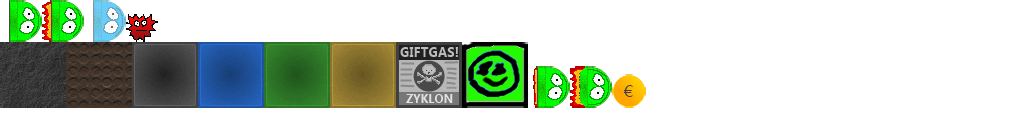
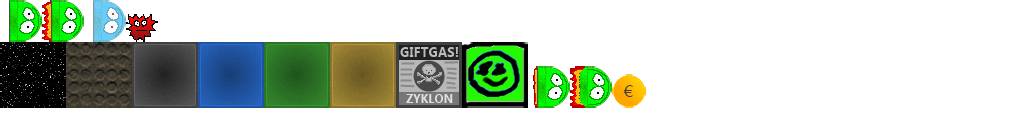
Many changes...

Changed region(s): [[0.0, 0.3125, 0.125, 0.8438]]

diff --git a/src/com/andreschnabel/deathjam/Player.java b/src/com/andreschnabel/deathjam/Player.java
@@ -4,6 +4,7 @@ import com.badlogic.gdx.graphics.g2d.Sprite;
 import com.badlogic.gdx.graphics.g2d.SpriteBatch;
 import com.badlogic.gdx.graphics.g2d.TextureAtlas;
 import com.badlogic.gdx.graphics.g2d.TextureRegion;
+import com.badlogic.gdx.math.Intersector;
 import com.badlogic.gdx.math.MathUtils;
 import com.badlogic.gdx.math.Rectangle;
 import com.badlogic.gdx.math.Vector2;
@@ -16,14 +17,15 @@ public class Player {
 	private static final float MOV_SPEED = 5.0f;
 	private static final float MAX_MOV_SPEED = 20.0f;
 
-	private Vector2 inertia = Vector2.Zero.cpy();
+	public Vector2 inertia = Vector2.Zero.cpy();
 
 	private Sprite playerSpr;
 	private List<TextureRegion> playerRegions = new ArrayList<TextureRegion>();
 	private final World world;
 
 	public boolean alive = true;
-	public int score = 0;
+	public int score;
+	public boolean gameover;
 
 	public Player(World world) {
 		this.world = world;
@@ -48,31 +50,71 @@ public class Player {
 		if(inertia.y >= MAX_MOV_SPEED) inertia.y = MAX_MOV_SPEED;
 	}
 
+	private final float RECT_MINIFICATION_FACTOR = 0.9f;
+
+	private void minificateRect(Rectangle rect) {
+		rect.x += (1 - RECT_MINIFICATION_FACTOR) * rect.width;
+		rect.y += (1 - RECT_MINIFICATION_FACTOR) * rect.height;
+		rect.width *= RECT_MINIFICATION_FACTOR;
+		rect.height *= RECT_MINIFICATION_FACTOR;
+	}
+
 	public void updatePlayerPos() {
 		playerSpr.setX(playerSpr.getX()+inertia.x);
 		playerSpr.setY(playerSpr.getY()+inertia.y);
 
 		Rectangle playerRect = playerSpr.getBoundingRectangle();
+		minificateRect(playerRect);
+
 		if(world.inTile(playerRect)) {
 			playerSpr.setX(playerSpr.getX()-inertia.x);
 			playerSpr.setY(playerSpr.getY()-inertia.y);
-			inertia.x *= -1.5f;
-			inertia.y *= -1.5f;
+			inertia.x *= -1.0f;
+			inertia.y *= -1.0f;
 
 			if(world.inTileOfType(playerRect, 'X')) {
-				alive = false;
-				world.loadFromFile("deathworld1.txt");
-				playerSpr.setPosition(world.playerStart.x, world.playerStart.y);
-				inertia.set(0.0f, 0.0f);
+				kill();
+				return;
 			}
 
 			if(world.inTileOfType(playerRect, 'Y')) {
-				alive = true;
-				world.loadFromFile("world1.txt");
-				playerSpr.setPosition(world.playerStart.x, world.playerStart.y);
-				inertia.set(0.0f, 0.0f);
+				revive();
+				return;
 			}
 		}
+
+		List<Enemy> enemies = world.getEnemies();
+		playerRect = playerSpr.getBoundingRectangle();
+		minificateRect(playerRect);
+
+		for(Enemy enemy : enemies) {
+			if(Intersector.overlapRectangles(playerRect, enemy.getRect())) {
+				kill();
+				return;
+			}
+		}
+	}
+
+	public void kill() {
+		if(alive) {
+			alive = false;
+			world.loadFromFile("deathworld1.txt", true);
+			playerSpr.setPosition(world.playerStart.x, world.playerStart.y);
+			inertia.set(0.0f, 0.0f);
+		} else {
+			gameover = true;
+		}
+	}
+
+	public void revive() {
+		alive = true;
+		world.loadFromFile("world1.txt", true);
+		playerSpr.setPosition(world.playerStart.x, world.playerStart.y);
+		inertia.set(0.0f, 0.0f);
+	}
+
+	public float getMaxInertia() {
+		return Math.max(Math.abs(inertia.x), Math.abs(inertia.y));
 	}
 
 	public void updateInertia() {
@@ -82,7 +124,7 @@ public class Player {
 
 		playerSpr.setRotation((float) (MathUtils.radiansToDegrees * Math.atan2(inertia.y, inertia.x)));
 
-		float maxInertia = Math.max(Math.abs(inertia.x), Math.abs(inertia.y));
+		float maxInertia = getMaxInertia();
 		int regionIndex;
 		if(maxInertia <= 0.01f) {
 			regionIndex = 0;

diff --git a/src/com/andreschnabel/deathjam/World.java b/src/com/andreschnabel/deathjam/World.java
@@ -1,5 +1,6 @@
 package com.andreschnabel.deathjam;
 
+import com.badlogic.gdx.graphics.Color;
 import com.badlogic.gdx.graphics.g2d.SpriteBatch;
 import com.badlogic.gdx.graphics.g2d.SpriteCache;
 import com.badlogic.gdx.graphics.g2d.TextureAtlas.AtlasRegion;
@@ -19,7 +20,6 @@ public class World {
 	private final static int TILE_W = 64;
 	private final static int TILE_H = 64;
 	private static final int COIN_VALUE = 100;
-	private static final float ENEMY_RADIUS = 64.0f;
 	private char[][] grid;
 	public int gridW;
 	public int gridH;
@@ -28,7 +28,7 @@ public class World {
 	private AtlasRegion coinRegion;
 	private HashMap<Character, Integer> charToRegionMap;
 	public Vector2 playerStart = new Vector2();
-	private List<Vector2> enemyCenters = new ArrayList<Vector2>();
+	private List<Enemy> enemies = new ArrayList<Enemy>();
 	private AtlasRegion enemyRegion;
 
 	private float rotAlpha;
@@ -39,6 +39,8 @@ public class World {
 	private final SpriteBatch sb;
 
 	private TextureRegion floorRegion;
+	private boolean inDeathWorld;
+	private Color brightRed = new Color(1.0f, 0.4f, 0.4f, 1.0f);
 
 	public World() {
 		initCharToRegionMap();
@@ -53,7 +55,7 @@ public class World {
 
 		floorRegion = Globals.atlas.findRegion("floor");
 
-		loadFromFile("world1.txt");
+		loadFromFile("world1.txt", false);
 
 		sb = new SpriteBatch();
 
@@ -63,6 +65,8 @@ public class World {
 		sc = new SpriteCache();
 
 		sc.beginCache();
+		if(inDeathWorld)
+			sc.setColor(Color.RED);
 
 		for(int y=0; y<gridH; y++) {
 			for(int x=0; x<gridW; x++) {
@@ -96,9 +100,10 @@ public class World {
 		charToRegionMap.put('Y', 5);
 	}
 
-	public void loadFromFile(String filename) {
+	public void loadFromFile(String filename, boolean deathWorld) {
+		this.inDeathWorld = deathWorld;
 		coinRects.clear();
-		enemyCenters.clear();
+		enemies.clear();
 
 		String worldStr = Utils.assetHandle(filename).readString();
 		String[] lines = worldStr.split("\n");
@@ -136,7 +141,7 @@ public class World {
 					coinRects.add(ncrect);
 				} else if(c == 'e') {
 					c = ' ';
-					enemyCenters.add(new Vector2(xPosition, yPosition));
+					enemies.add(new Enemy(xPosition, yPosition));
 				}
 
 				grid[yCounter][xCounter] = c;
@@ -163,6 +168,12 @@ public class World {
 		return maxLength;
 	}
 
+	public void update() {
+		Enemy.updateAlpha();
+		for(Enemy enemy : enemies)
+			enemy.updatePos();
+	}
+
 	public void render(Matrix4 mviewmx) {
 		sc.setTransformMatrix(mviewmx);
 		sc.begin();
@@ -171,16 +182,13 @@ public class World {
 
 		sb.setTransformMatrix(mviewmx);
 		sb.begin();
+		if(inDeathWorld) sb.setColor(brightRed);
 		for(Rectangle coinRect : coinRects) {
 			sb.draw(coinRegion, coinRect.x, coinRect.y);
 		}
 
-		rotAlpha += 0.05f; //delta * 0.01f;
-
-		for(Vector2 enemyCenter : enemyCenters) {
-			float xpos = (float) (enemyCenter.x + Math.cos(rotAlpha) * ENEMY_RADIUS);
-			float ypos = (float) (enemyCenter.y + Math.sin(rotAlpha) * ENEMY_RADIUS);
-			sb.draw(enemyRegion, xpos, ypos);
+		for(Enemy enemy : enemies) {
+			sb.draw(enemyRegion, enemy.pos.x, enemy.pos.y);
 		}
 		sb.end();
 	}
@@ -233,4 +241,7 @@ public class World {
 		return collectedAmount;
 	}
 
+	public List<Enemy> getEnemies() {
+		return enemies;
+	}
 }

diff --git a/src/com/andreschnabel/deathjam/DeathGame.java b/src/com/andreschnabel/deathjam/DeathGame.java
@@ -17,6 +17,7 @@ public class DeathGame implements ApplicationListener {
 	private SpriteCache backCache;
 	private int backCacheId;
 	private SpriteBatch sb, fsb;
+	private BitmapFont hugeFont;
 	private BitmapFont smallFont, bigFont;
 
 	private World world;
@@ -46,17 +47,21 @@ public class DeathGame implements ApplicationListener {
 
 		TextureRegion backRegion = Globals.atlas.findRegion("back");
 
-		for(int y=0; y<Globals.PSCR_H; y+=backRegion.getRegionWidth())
-			for(int x=0; x<Globals.PSCR_W; x+=backRegion.getRegionWidth())
-				backCache.add(backRegion, x, y);
+		float w = backRegion.getRegionWidth()*2;
+		float h = backRegion.getRegionWidth()*2;
+
+		for(int y=0; y<Globals.PSCR_H; y+=h)
+			for(int x=0; x<Globals.PSCR_W; x+=w)
+				backCache.add(backRegion, x, y, w, h);
 
 		backCacheId = backCache.endCache();
 	}
 
 	private void initFonts() {
 		FreeTypeFontGenerator generator = new FreeTypeFontGenerator(Utils.assetHandle("font.ttf"));
-		bigFont = generator.generateFont(30);
-		smallFont = generator.generateFont(15);
+		hugeFont = generator.generateFont(72);
+		bigFont = generator.generateFont(60);
+		smallFont = generator.generateFont(30);
 		generator.dispose();
 	}
 
@@ -64,6 +69,7 @@ public class DeathGame implements ApplicationListener {
 	public void dispose() {
 		smallFont.dispose();
 		bigFont.dispose();
+		hugeFont.dispose();
 		sb.dispose();
 		world.dispose();
 		Globals.atlas.dispose();
@@ -81,6 +87,7 @@ public class DeathGame implements ApplicationListener {
 		scroller.updateScrolling();
 		player.updateInertia();
 		scroller.updateCamera();
+		world.update();
 	}
 
 	private void processInput() {
@@ -88,15 +95,14 @@ public class DeathGame implements ApplicationListener {
 			Gdx.app.exit();
 		}
 
-		// horizontal
+		if(player.gameover) return;
+
 		if(Gdx.input.isKeyPressed(Keys.LEFT)) {
 			player.move(-1, 0);
 		}
 		if(Gdx.input.isKeyPressed(Keys.RIGHT)) {
 			player.move(1, 0);
 		}
-
-		// vertical
 		if(Gdx.input.isKeyPressed(Keys.UP)) {
 			player.move(0, 1);
 		}
@@ -129,12 +135,23 @@ public class DeathGame implements ApplicationListener {
 
 	private void renderTextOverlay() {
 		fsb.begin();
+
 		String curStr = player.alive ? "ALIVE" : "DEAD";
 		TextBounds txtBounds = bigFont.getBounds(curStr);
+
 		bigFont.setColor(Color.WHITE);
-		bigFont.draw(fsb, "Score " + player.score, 10, Globals.PSCR_H - txtBounds.height);
+		bigFont.draw(fsb, "Score " + player.score, 40, Globals.PSCR_H - txtBounds.height);
+
 		bigFont.setColor(player.alive ? Color.GREEN : Color.RED);
-		bigFont.draw(fsb, curStr, Globals.PSCR_W - txtBounds.width, txtBounds.height + 10);
+		bigFont.draw(fsb, curStr, Globals.PSCR_W - txtBounds.width, txtBounds.height + 40);
+
+		if(player.gameover) {
+			txtBounds = hugeFont.getBounds("GAME OVER!");
+			float gx = (Globals.PSCR_W - txtBounds.width) / 2.0f;
+			float gy = (Globals.PSCR_H - txtBounds.height) / 2.0f;
+			hugeFont.draw(fsb, "GAME OVER!", gx, gy);
+		}
+
 		fsb.end();
 	}
 

diff --git a/src/com/andreschnabel/deathjam/Enemy.java b/src/com/andreschnabel/deathjam/Enemy.java
@@ -1,0 +1,41 @@
+package com.andreschnabel.deathjam;
+
+import com.badlogic.gdx.graphics.g2d.TextureAtlas;
+import com.badlogic.gdx.math.Rectangle;
+import com.badlogic.gdx.math.Vector2;
+
+public class Enemy {
+
+	private static final float ENEMY_RADIUS = 64.0f;
+
+	public Vector2 center = new Vector2();
+	public Vector2 pos = new Vector2();
+
+	private static float rotAlpha;
+
+	private static int w, h;
+
+	static {
+		TextureAtlas.AtlasRegion enemyRegion = Globals.atlas.findRegion("enemy");
+		w = enemyRegion.getRegionWidth();
+		h = enemyRegion.getRegionHeight();
+	}
+
+	public Enemy(float cx, float cy) {
+		center.x = cx;
+		center.y = cy;
+	}
+
+	public static void updateAlpha() {
+		rotAlpha += 0.05f; //delta * 0.01f;
+	}
+
+	public void updatePos() {
+		pos.x = (float) (center.x + Math.cos(rotAlpha) * ENEMY_RADIUS);
+		pos.y = (float) (center.y + Math.sin(rotAlpha) * ENEMY_RADIUS);
+	}
+
+	public Rectangle getRect() {
+		return new Rectangle(pos.x, pos.y, w, h);
+	}
+}

diff --git a/src/com/andreschnabel/deathjam/Scroller.java b/src/com/andreschnabel/deathjam/Scroller.java
@@ -22,9 +22,12 @@ public class Scroller {
 	}
 
 	public void updateCamera() {
-		cam.position.set(xOffset*2, yOffset*2, 0.0f);
+		float maxInertia = player.getMaxInertia();
+		float zoomFactor = 2.0f - 0.25f * (maxInertia / 20.0f);
+
+		cam.position.set(xOffset* zoomFactor, yOffset* zoomFactor, 0.0f);
 		cam.update();
-		cam.view.scale(2.0f, 2.0f, 1.0f);
+		cam.view.scale(zoomFactor, zoomFactor, 1.0f);
 	}
 
 	public void scroll(float dx, float dy) {

diff --git a/src/com/andreschnabel/deathjam/Launcher.java b/src/com/andreschnabel/deathjam/Launcher.java
@@ -12,7 +12,8 @@ public class Launcher {
 	}
 
 	private static void updateAtlas() {
-		if(new File("data/atlas.pack").lastModified() < new File("data/texsrc").lastModified())
+		final boolean FORCE_REPACK = false;
+		if(FORCE_REPACK || new File("data/atlas.pack").lastModified() < new File("data/texsrc").lastModified())
 			TexturePacker2.process("data/texsrc", "data", "atlas.pack");
 	}
 
